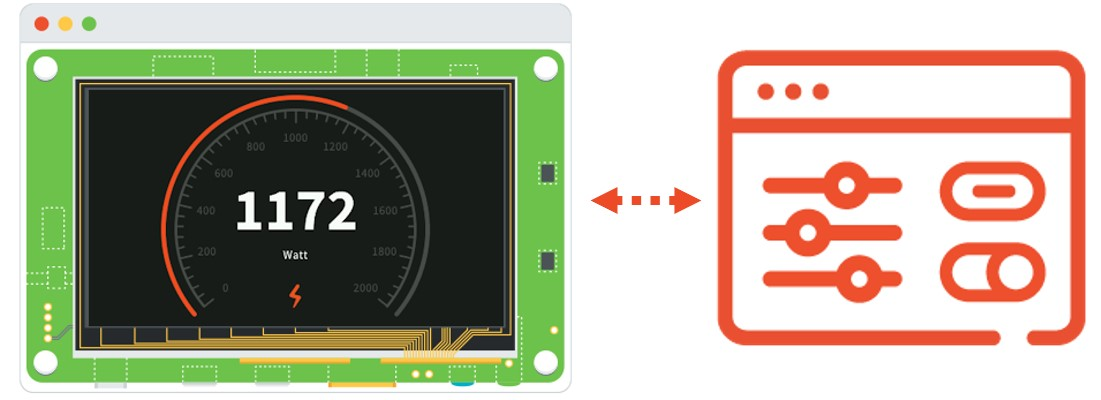
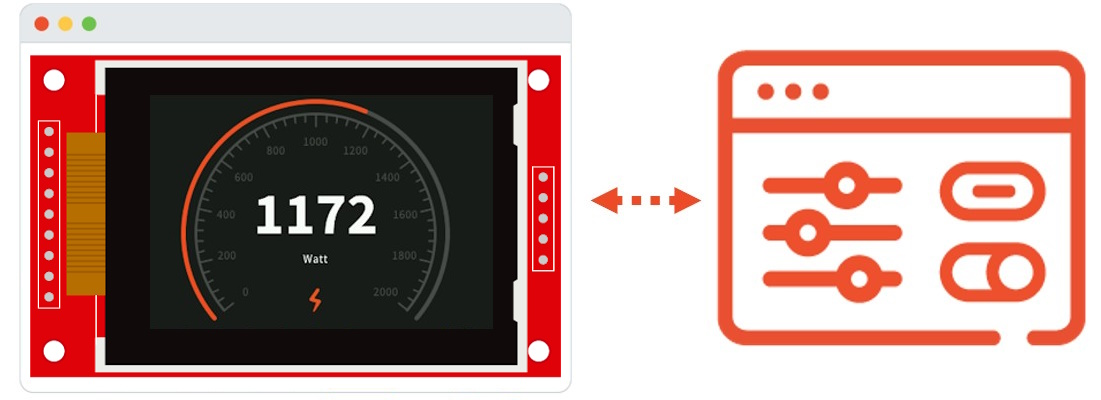
Update training section

Changed region(s): [[0.0, 0.12, 0.525, 0.99], [0.247, 0.72, 0.3088, 0.78], [0.247, 0.63, 0.3088, 0.66]]

diff --git a/Trainings/trainingKernel.rst b/Trainings/trainingKernel.rst
@@ -29,7 +29,7 @@ Prerequisites
 
 To get the most out of this training, participants should have access to:
 
-- The `STM32F7508-DK Evaluation Kit <https://www.st.com/en/evaluation-tools/stm32f7508-dk.html>`__.
+- Access to the `NXP i.MX RT1170 Evaluation Kit <https://www.nxp.com/design/design-center/development-boards-and-designs/i-mx-evaluation-and-development-boards/i-mx-rt1170-evaluation-kit:MIMXRT1170-EVKB>`__.
 - A mini USB cable.
 - A micro SD card.
 
@@ -49,16 +49,7 @@ for developing a Sandboxed Application and deploying it easily on your Device.
 Additionally, this project serves as a starting point for Kernel developers to learn and demonstrate 
 most of the Multi-Sandboxing capabilities of the MicroEJ technology.
 
-.. tabs::
-
-   .. tab:: MICROEJ SDK 5
-
-      - `Kernel GREEN on GitHub <https://github.com/MicroEJ/Kernel-GREEN>`_
-
-   .. tab:: MICROEJ SDK 6
-
-      Kernel GREEN for MICROEJ SDK 6 is coming soon!
-
+To complete this unit, follow the steps of the `Kernel GREEN REAMDE on GitHub <https://github.com/MicroEJ/Kernel-GREEN>`_.
 
 ..
    | Copyright 2024, MicroEJ Corp. Content in this space is free 

diff --git a/Trainings/trainingSdkBasics.rst b/Trainings/trainingSdkBasics.rst
@@ -57,7 +57,6 @@ This training is provided as a PDF, along with a downloadable ``.zip`` package o
    .. tab:: MICROEJ SDK 5
 
       - |microej_sdk_basics_nxp_rt1170_sdk5_slides|
-      - |microej_sdk_basics_stm32f7508_sdk5_slides|
       - :download:`Resources <https://repository.microej.com/packages/training/microej_sdk_basics/gpio-foundation-library-example-sdk5_14562492.zip>`
 
    .. tab:: MICROEJ SDK 6
